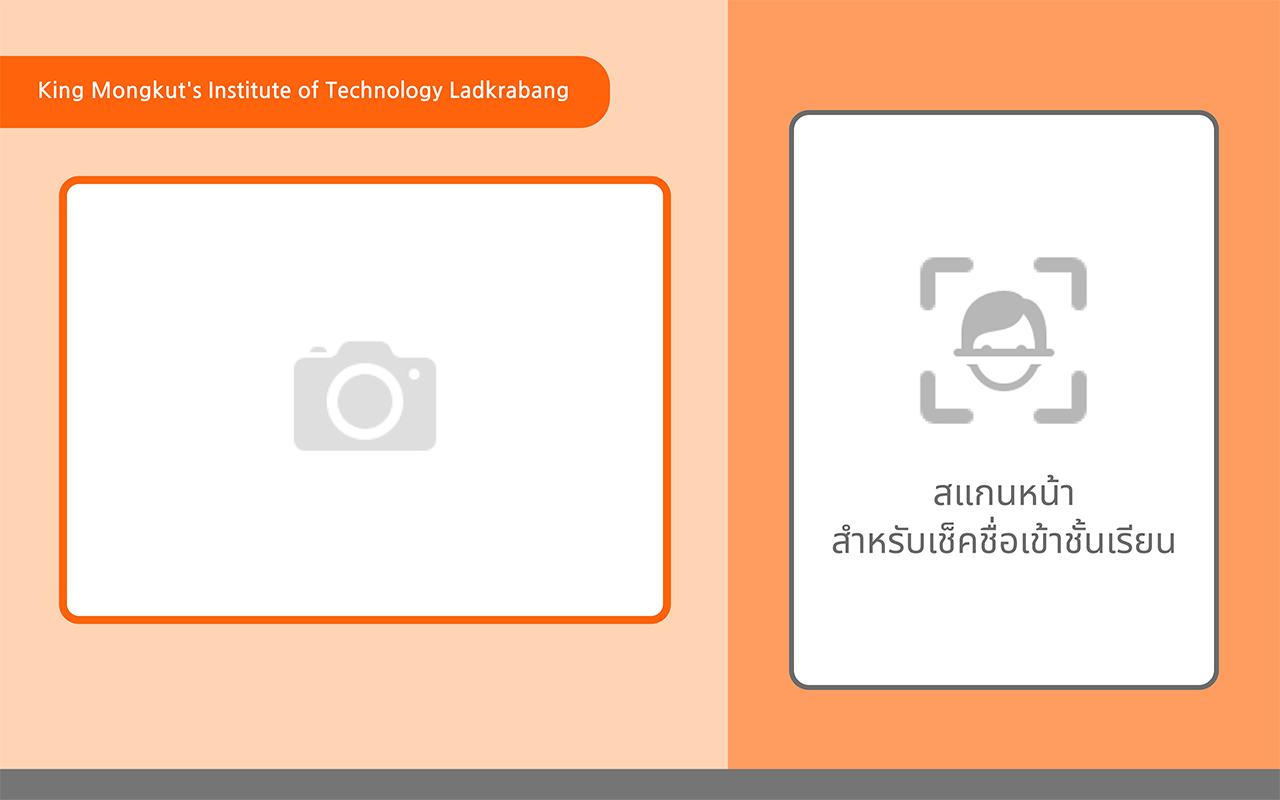
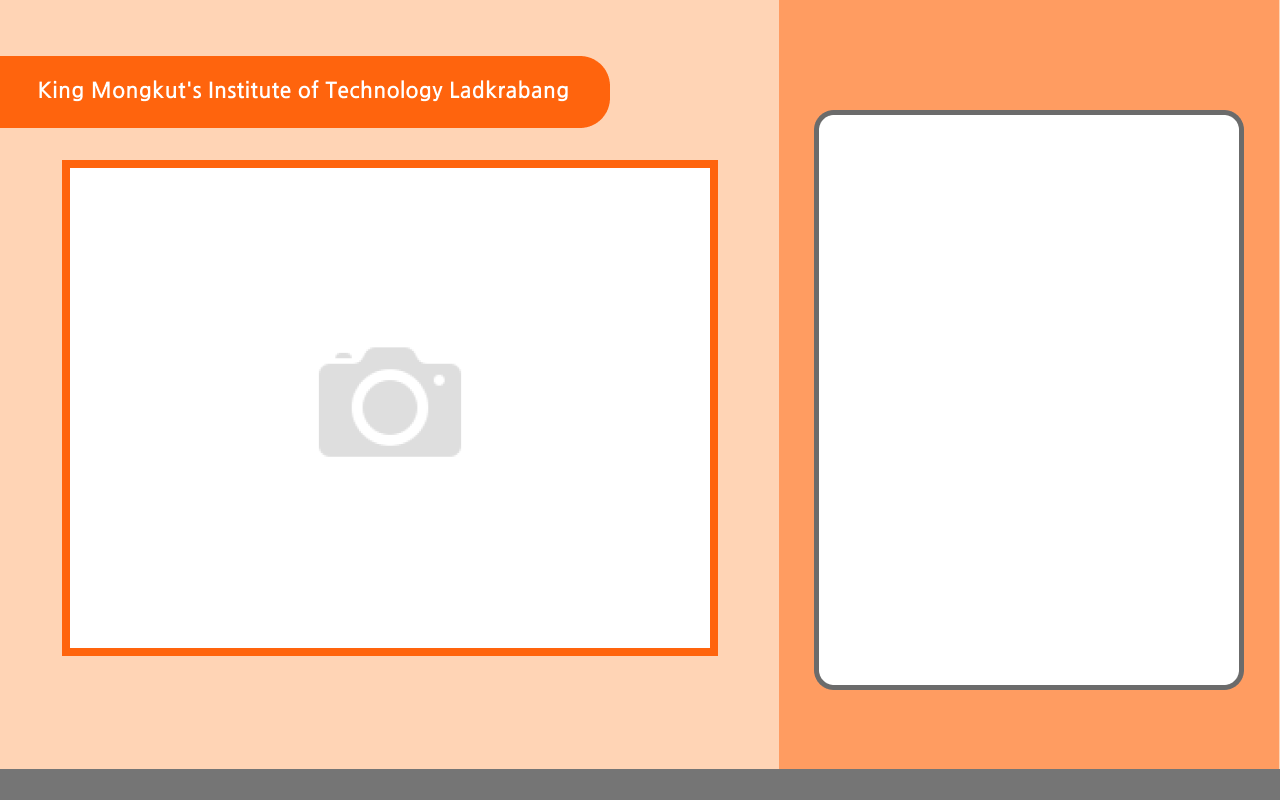
5'th day committing

diff --git a/main.py b/main.py
@@ -12,19 +12,48 @@ import cvzone
 
 # face detection
 import face_recognition
+
+# simple math method
 import numpy as np
 
-# START THE CAMERA #
+from datetime import datetime
+import re
+
+# manage database realtime
+import firebase_admin
+from firebase_admin import credentials
+from firebase_admin import db
+# manage storage image
+from firebase_admin import storage
+
+    # SETTING DATABASE TO LINK WITH LOCAL DATA #
+# create default data for database
+cred = credentials.Certificate("serviceAccountKey.json")
+firebase_admin.initialize_app(cred, {
+    # realtime database url
+    'databaseURL': "https://facerecognition-41dc8-default-rtdb.asia-southeast1.firebasedatabase.app/",
+    'storageBucket': "facerecognition-41dc8.appspot.com"
+})
+bucket = storage.bucket() # call data(image) from storage
+
+    # START THE CAMERA #
 cap = cv2.VideoCapture(0)  # open Camera (order of cam)
 cap.set(cv2.CAP_PROP_FRAME_WIDTH, 640)
 cap.set(cv2.CAP_PROP_FRAME_HEIGHT, 480)
 
 backGround = cv2.imread('Interface/background.png')  # import background
 
-# IMPORT MODE OF CHECK ATTENDANCE IN THE LIST #
-modePath = 'Interface/Modes'
+    # IMPORT MODE OF CHECK ATTENDANCE IN THE LIST #
+modePath = 'Interface/modes'
 modePathList = os.listdir(modePath)  # list of modename.file
 modeList = []
+
+    # SETTING MODE #
+# 0 (onTime), 1 (mark), 2 (default), 3 (late)
+modeType = 2
+counter = 0
+id = -1
+imageStudent = []
 
 for path in modePathList:
     # keep path of mode
@@ -50,7 +79,7 @@ while True:
     # change color RGB(faceRecognition) to BGR(openCV)
     imageResize = cv2.cvtColor(imageResize, cv2.COLOR_BGR2RGB)
 
-    # DETECT FACE ON THE CAMARE #
+        # DETECT FACE ON THE CAMARE #
     # return list pixel points of face (top, right, bottom, left)
     faceCurrent = face_recognition.face_locations(imageResize)
 
@@ -58,32 +87,100 @@ while True:
     encodeNewface = face_recognition.face_encodings(imageResize, faceCurrent)
 
     # define start point and end point on GUI (start y: end y, start x: end x)
-    backGround[183:(183 + 480), 66:(66 + 640)] = image  # point of Camera
-    backGround[0:(0 + 800), 780:(780 + 500)] = modeList[0]  # point of modes
+    backGround[168:(168 + 480), 70:(70 + 640)] = image  # point of Camera
+    backGround[0:(0 + 800), 780:(780 + 500)] = modeList[modeType]  # point of modes
 
         # COMPARE ENCODING OF UNKNOW FACE AND KNOW FACE #
     # make loop of both together
     for encodeFace, faceLocation in zip(encodeNewface, faceCurrent):
         # compare if match, that return True
         matches = face_recognition.compare_faces(encodeFaceList, encodeFace, tolerance = 0.5)
+        
         # calculate distance on both of face and return float of different
         faceDistance = face_recognition.face_distance(encodeFaceList, encodeFace)
-        #print("matches", matches)
-        #print("faceDis", faceDistance)
-
+        
+        # choose match ID, that differance distance are min
         matchIndex = np.argmin(faceDistance)
-        #print("match index ", matchIndex)
-
+        
+            # CRATE RECTAGLE TO DETECT FACE #
         if matches[matchIndex]:
-            # print("known face detected")
-            print(studentIDList)
-
+            #print(studentIDList[matchIndex])
+            # points of face dectection
             y1, x2, y2, x1 = faceLocation
             y1, x2, y2, x1 = y1 * 4, x2 * 4, y2 * 4, x1 * 4
-            bbox = 55 + x1, 162 + y1, x2 - x1, y2 - y1
-            backGround = cvzone.cornerRect(backGround, bbox, rt=0)
+            
+            # setting point for frame dectect
+            bbox = 45 + x1, 162 + y1, x2 - x1, y2 - y1
+            backGround = cvzone.cornerRect(backGround, bbox, rt=0, colorC=(13, 100, 255))
+            
+            id = studentIDList[matchIndex]
+                # CHANGE MODE #
+            if counter == 0:
+                modeType = 0
+                counter = 1
+                
+        # DOWNLOAD & UPLOAD INFORMATION OF STUDENTS WHO HAS ATTENDANCE #
+    if counter != 0:
+        if counter == 1:
+            # GET all information of the student
+            studentInfo = db.reference(f'Students/{id}').get()
+            print(studentInfo)
+            
+            # GET image of the student 
+            blob = bucket.get_blob(f'showFace/{id}.jpg')
+            array = np.frombuffer(blob.download_as_string(), np.uint8)
+            imageStudent = cv2.imdecode(array, cv2.COLOR_BGRA2BGR)
+            
+            # UPDATE data of attendance
+            ref = db.reference(f'Students/{id}')
+                # the day on attendance
+            day = datetime.now().strftime("%d/%m/%Y")
+            ref.child('day').set(day)
+                
+                # time on attendance
+            checkingTime = datetime.now().strftime("%H:%M")
+            ref.child('check the time').set(checkingTime)
+            
+                # count attendance
+            studentInfo['total attendance'] = str(int(studentInfo['total attendance']) + 1)
+            ref.child('total attendance').set(studentInfo['total attendance'])
+            if 'rate attendance' not in studentInfo:
+                studentInfo['rate attendance'] = 0
+        
+        if 15 < counter < 25:
+            modeType = 1
+        backGround[0:(0 + 800), 780:(780 + 500)] = modeList[modeType]  # point of modes   
+            
+        if counter <= 15:
+                # SHOW INFORMATION OF THE STUDENT #
+            cv2.putText(backGround, str(studentInfo['name']),(905, 415),cv2.FONT_HERSHEY_DUPLEX, 0.625, (0, 0, 0), 1)
+            cv2.putText(backGround, str(id),(985, 443),cv2.FONT_HERSHEY_DUPLEX, 0.625, (0, 0, 0), 1)
+            cv2.putText(backGround, str(studentInfo['degree']),(920, 486),cv2.FONT_HERSHEY_DUPLEX, 0.625, (0, 0, 0), 1)
+            cv2.putText(backGround, str(studentInfo['major']),(920, 513),cv2.FONT_HERSHEY_DUPLEX, 0.625, (0, 0, 0), 1)
+            cv2.putText(backGround, str(studentInfo['year']),(935, 540),cv2.FONT_HERSHEY_DUPLEX, 0.625, (0, 0, 0), 1)
+            cv2.putText(backGround, str(day),(877, 596),cv2.FONT_HERSHEY_DUPLEX, 0.7, (0, 0, 0), 1)
+            cv2.putText(backGround, str(checkingTime),(1100, 596),cv2.FONT_HERSHEY_DUPLEX, 0.7, (0, 0, 0), 1)
+            cv2.putText(backGround, str(studentInfo['total attendance']),(1037, 736),cv2.FONT_HERSHEY_DUPLEX, 0.625, (0, 0, 0), 1)
+            #cv2.putText(backGround, str(studentInfo['rate attendance']),(1037, 796),cv2.FONT_HERSHEY_DUPLEX, 0.625, (0, 0, 0), 1)
+            
+            backGround[184:184+175, 943:943+175] = imageStudent
+            
+        counter += 1
+        
+        if counter >= 30:
+            counter = 0
+            modeType = 2
+            studentInfo = []
+            imageStudent = []
 
     cv2.imshow("Face Attendance", backGround)  # create GUI (display)
 
     # receive action from User on GUI
-    cv2.waitKey(1)
+    key = cv2.waitKey(1)
+    # exit when key q, Q, Esc
+    if key == ord('q') or key == ord('Q') or key == 27:
+        break
+
+# CLOSE THE GUI #
+cap.release()
+cv2.destroyAllWindows()

diff --git a/addDatabase.py b/addDatabase.py
@@ -1,0 +1,68 @@
+    # WRITE BY JAVASCRIPTS SYNTAX #
+# manage database realtime
+import firebase_admin
+from firebase_admin import credentials
+from firebase_admin import db
+# manage storage image
+from firebase_admin import storage
+
+# read data
+import csv
+import numpy as np
+import os
+
+    # SETTING DATABASE TO LINK WITH LOCAL DATA #
+# create default data for database
+cred = credentials.Certificate("serviceAccountKey.json")
+firebase_admin.initialize_app(cred, {
+    # realtime database url
+    'databaseURL': "https://facerecognition-41dc8-default-rtdb.asia-southeast1.firebasedatabase.app/",
+    'storageBucket': "facerecognition-41dc8.appspot.com"
+})
+
+    # CREATE DATABASE REFERENCE #
+ref = db.reference('Students') # create directory
+
+    # READ DATA FILE #
+f = open("AIsec1List.csv","r")
+with open('AIsec1List.csv', newline='') as csvfile: # next data by newline
+    arr = list(csv.reader(csvfile))
+
+arr = arr[1:] # delete first line (header)
+
+    # ADD DATA (key, value) #
+data = {}
+for i in arr:
+    studentID = i[0]
+    data[studentID] = {
+        "name": i[1],
+        "degree": i[3],
+        "major": i[4],
+        "year": i[2],
+        "total attendance": i[5],
+        "rate attendace": i[6],
+        "day": i[7],
+        "check the time": i[8]
+    }
+
+    # IMPORT IMAGE INTO DATABASE #
+facePath = 'showFace'
+facePathList = os.listdir(facePath) # list of facename.file
+faceList = []
+studentIDList = []
+    
+for path in facePathList:
+    if path == ".DS_Store":
+        continue
+    # upload image into the floder
+    image = f'{facePath}/{path}'
+    # referance to bucket Google Cloud Storage
+    bucket = storage.bucket()
+    # manage image
+    blob = bucket.blob(image)
+    # upload image, that managed
+    blob.upload_from_filename(image)
+
+    # UPLOAD DATA INTO DATABASE REALTIME #
+for key,value in data.items():
+   ref.child(key).set(value)
